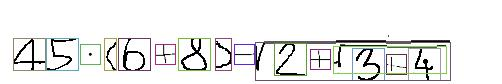
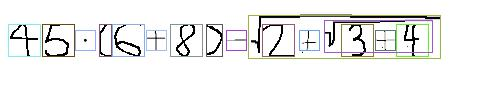
Fixed small root alinement bug

Changed region(s): [[0.0, 0.119, 0.9018, 0.9762]]

diff --git a/root.py b/root.py
@@ -199,7 +199,7 @@ class Root():
         
         # concat root and formula under it
         max_h = max(im.height, self.root.height)
-        cnt = Image.new('RGBA', (self.root.width, max_h+self.offset_y+10), color=(255, 255, 255, 0))
+        cnt = Image.new('RGBA', (self.root.width, max_h+self.offset_y+20), color=(255, 255, 255, 0))
         cnt.paste(self.root, (0, self.offset_y//2+5*ind - im.height//32))
         cnt.paste(im, (32-self.offset-15, self.offset_y+10), im)
 

diff --git a/visualise_bbox.py b/visualise_bbox.py
@@ -25,4 +25,3 @@ if __name__ == '__main__':
         im.rectangle([b[0], b[2]], outline=color)
 
     img.show()
-    img.save('images/ex3.jpg', 'JPEG')
